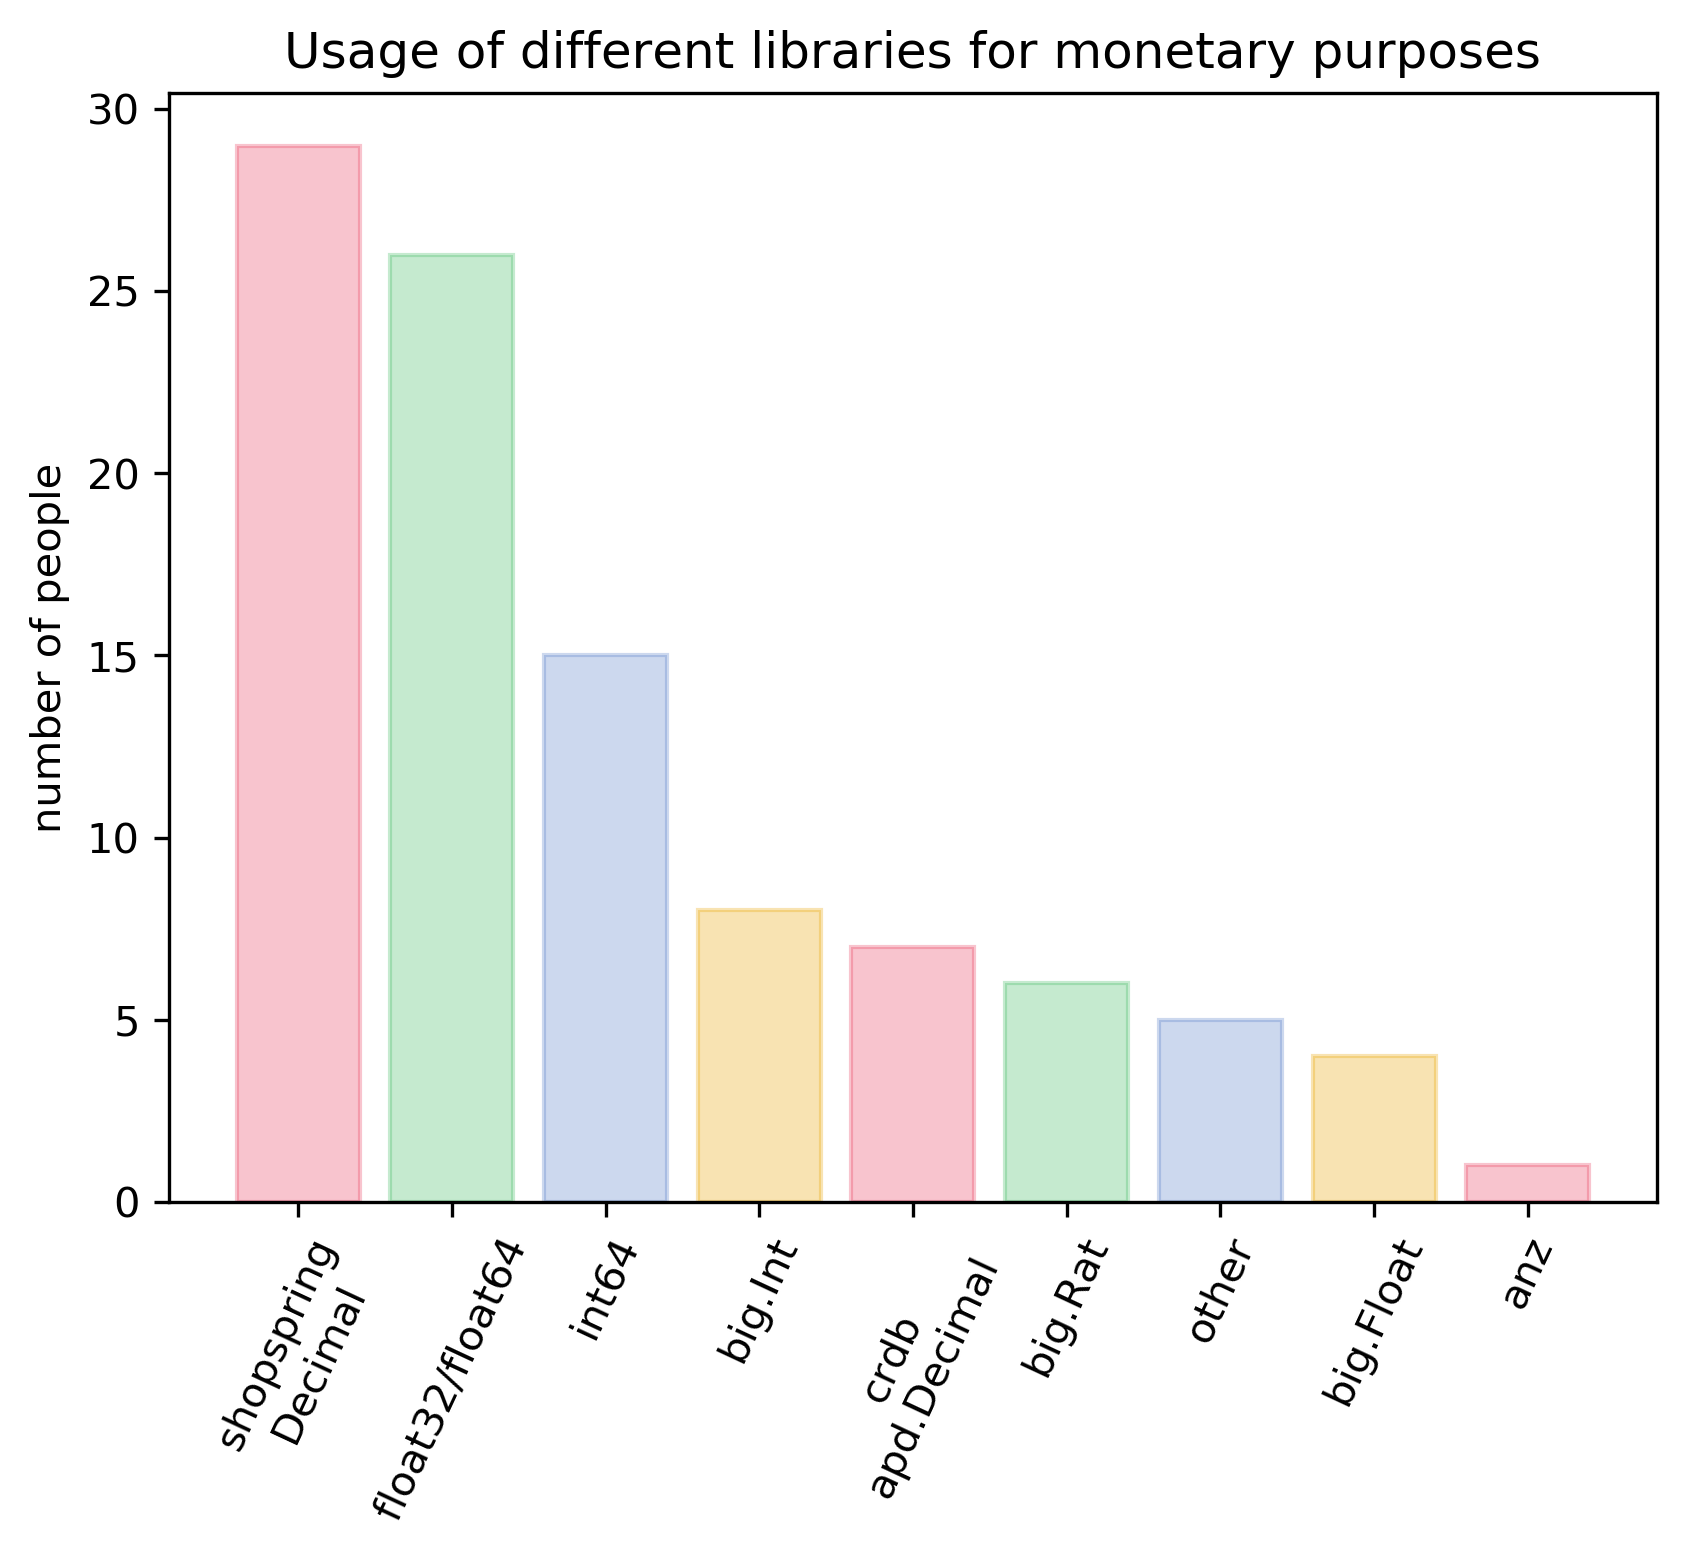
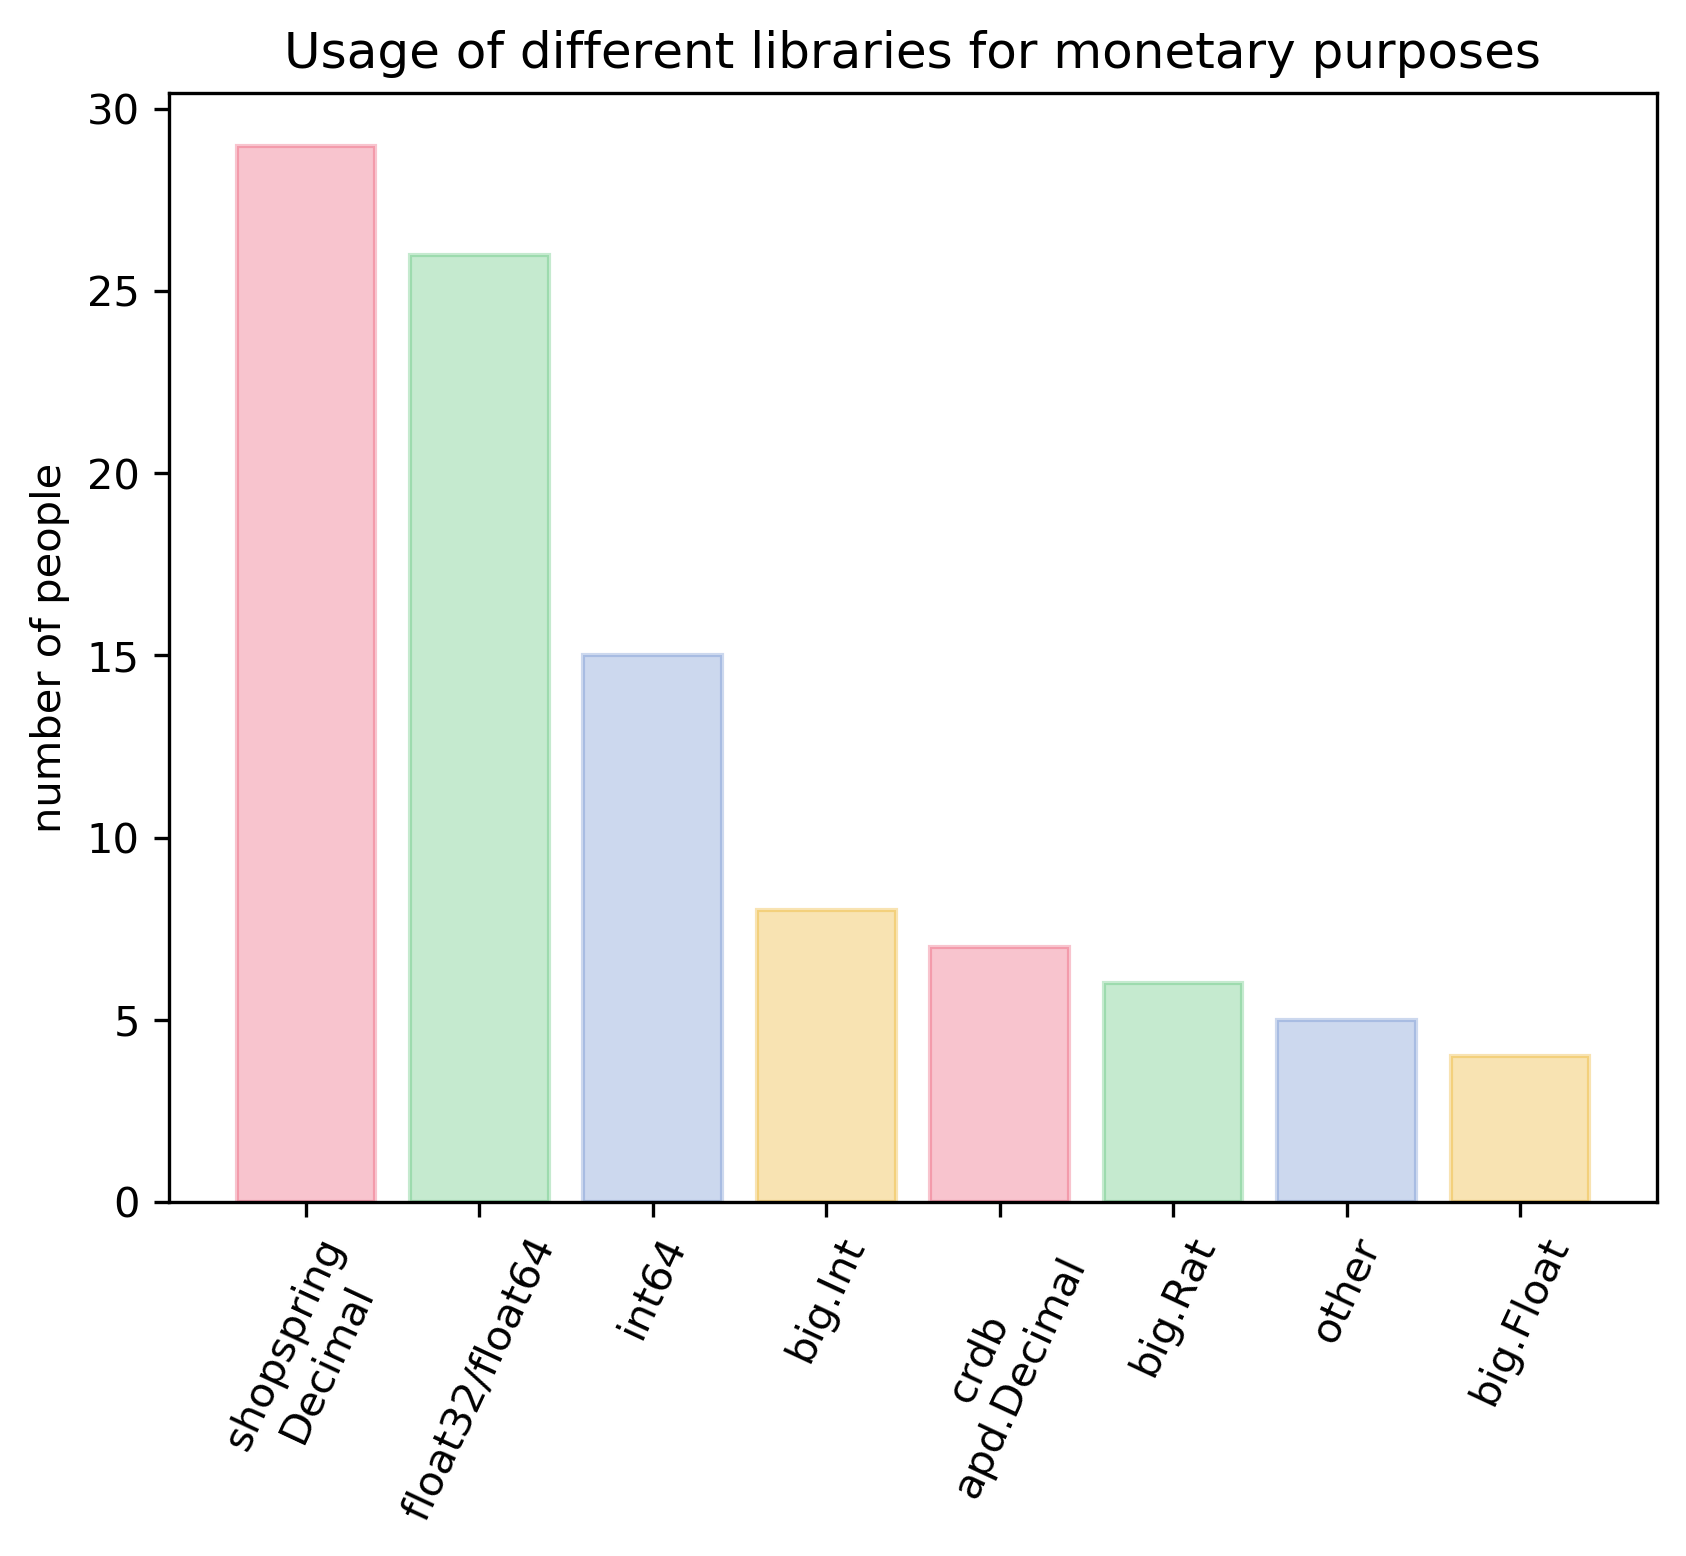
Add a whole bunch o' graphs

diff --git a/examples/benchmark/graph.py b/examples/benchmark/graph.py
@@ -42,7 +42,7 @@ def generate_graph(responsetime_filename):
         x = np.arange(len(element.index))
         dupeInd = np.arange(len(dupes.index))
         bar_lst2 = []
-        bar_lst2 = plt.bar(dupeInd, dupes.time.tolist())
+        # bar_lst2 = plt.bar(dupeInd, dupes.time.tolist())
         bar_lst = plt.bar(x, element.time.tolist())
        
         colors = cycle([(232/255, 62/255, 93/255, 0.3),(65/255, 186/255, 99/255, 0.3),(87/255, 126/255, 199/255, 0.3),(232/255, 165/255, 0, 0.3)])
@@ -56,9 +56,9 @@ def generate_graph(responsetime_filename):
 
         plt.ylabel('ms/operation')
         plt.title(operation + " Benchmark")
-        plt.savefig(os.path.abspath('../../content/')+f"/img/{operation}_4.png", dpi=300, figsize=(50,25),  bbox_inches = 'tight')
+        plt.savefig(os.path.abspath('../../content/')+f"/img/{operation}_6.png", dpi=300, figsize=(50,25),  bbox_inches = 'tight')
 
 if __name__ == "__main__":
     # os.system("go test -bench=. > results.txt")
-    convertToCsv("res.txt")
+    convertToCsv("this.txt")
     generate_graph("results.csv")

diff --git a/examples/benchmark/benchmarkEric_test.go b/examples/benchmark/benchmarkEric_test.go
@@ -32,6 +32,7 @@ var testPaths = []string{
 	"ddDivide.decTest",
 }
 var testPathdir = "dectest/"
+var numloop = 20000
 
 type testcase struct {
 	op     string
@@ -294,20 +295,20 @@ func execOpFloat(a, b *float64, op string) {
 func execOpDec(a, b *anz_optimised.DecParts, op string) {
 	switch op {
 	case "add":
-		for i := 0; i < numloops; i++ {
+		for i := 0; i < numloop; i++ {
 			a.Add(b)
 		}
 	case "multiply":
-		for i := 0; i < numloops; i++ {
+		for i := 0; i < numloop; i++ {
 			a.Mul(b)
 		}
 	case "abs":
-		for i := 0; i < numloops; i++ {
+		for i := 0; i < numloop; i++ {
 			a.Abs()
 		}
 	case "divide":
 		// return anz_optimised.DecZero
-		for i := 0; i < numloops; i++ {
+		for i := 0; i < numloop; i++ {
 			a.Quo(b)
 		}
 	default:

diff --git a/examples/benchmark/responses.py b/examples/benchmark/responses.py
@@ -10,8 +10,7 @@ a = pandas.DataFrame([{"name": "shopspring\nDecimal", "num": 29},
 {"name":"crdb\napd.Decimal", "num": 7},
 {"name":"big.Rat" , "num": 6},
 {"name":"other"  , "num": 5},
-{"name":"big.Float", "num": 4}, 
-{"name":"anz", "num": 1}])
+{"name":"big.Float", "num": 4}])
 x = numpy.arange(len(a.index))
 # a = a.unstack()
 a
